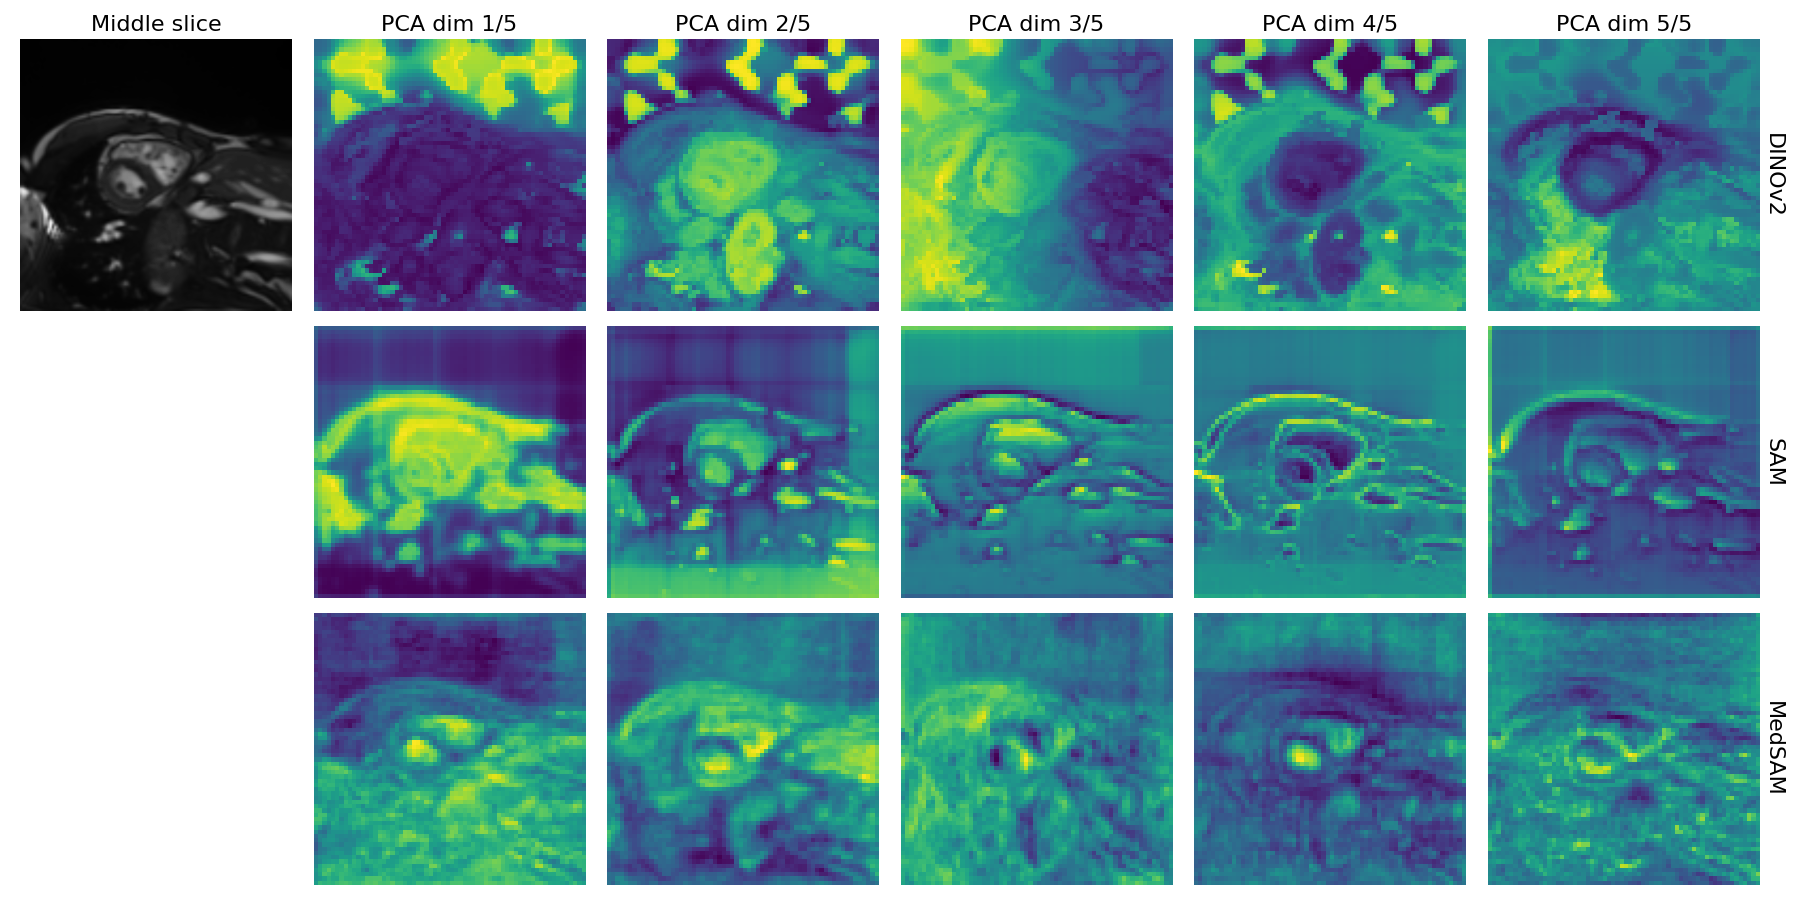
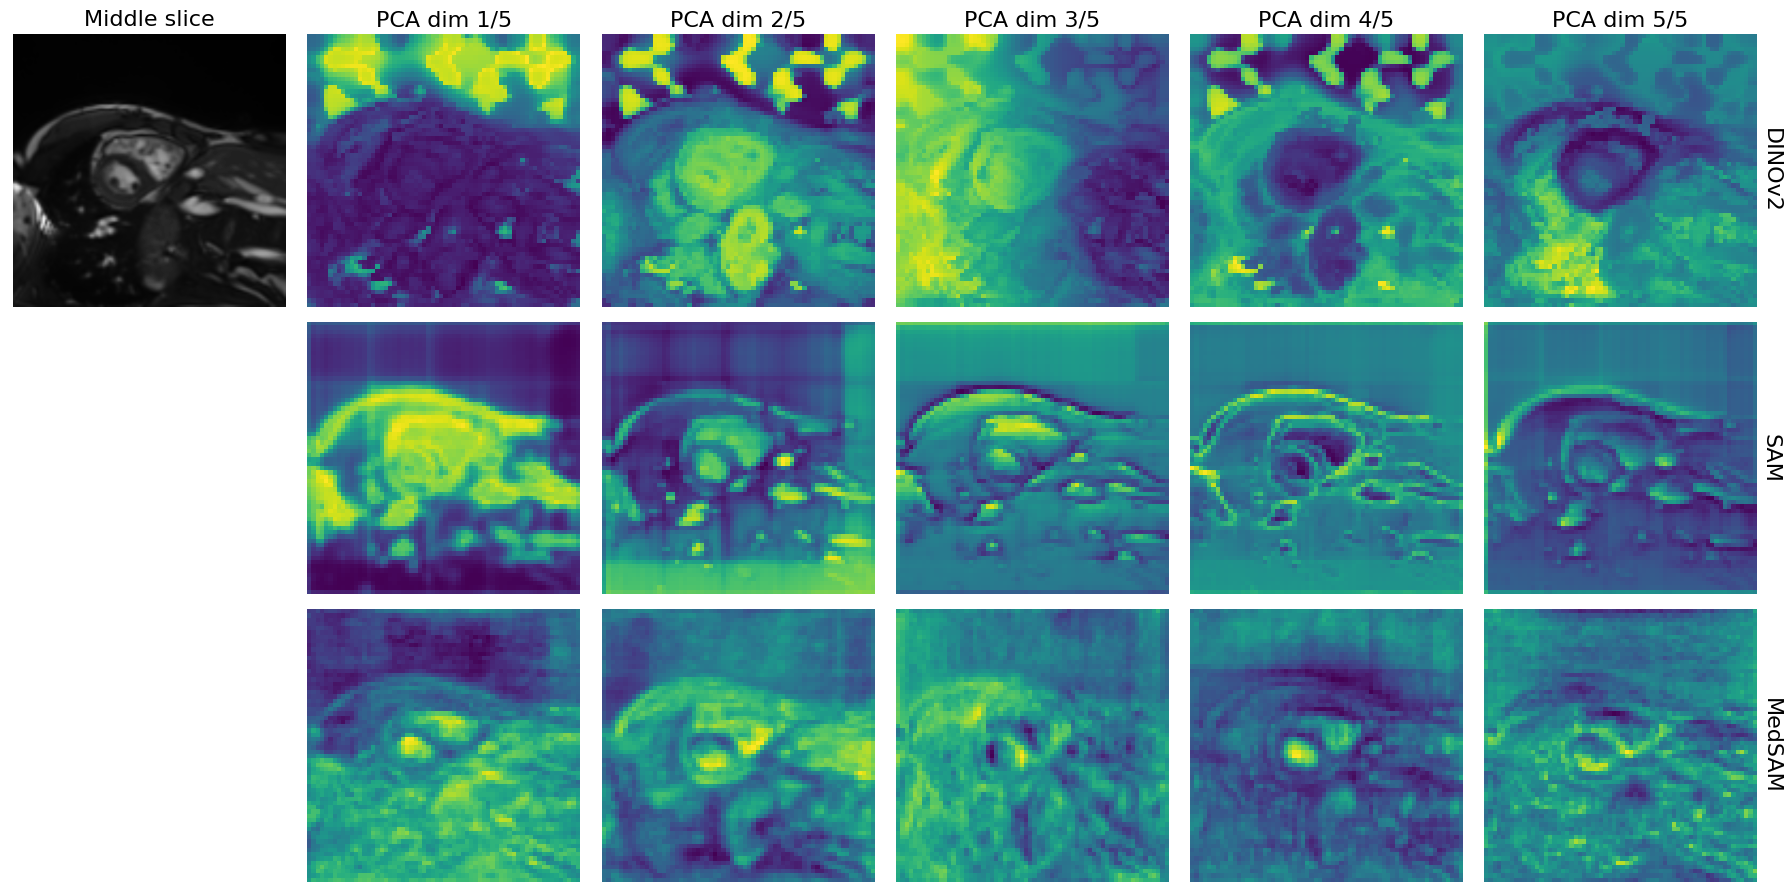
relative paths

diff --git a/examples/visualisation_scripts/visualise_features/visualise_features.py b/examples/visualisation_scripts/visualise_features/visualise_features.py
@@ -11,10 +11,10 @@ def features_pca(features: np.ndarray, num_dims: int) -> np:
     return pca_features
 
 
-path_image = "/u/home/koeglf/Documents/code/registrationbaselines/tmp/visualise_features/image_dino.pt"
-path_features_dino = "/u/home/koeglf/Documents/code/registrationbaselines/tmp/visualise_features/features_dino.pt"
-path_features_sam = "/u/home/koeglf/Documents/code/registrationbaselines/tmp/visualise_features/features_sam.pt"
-path_features_medsam = "/u/home/koeglf/Documents/code/registrationbaselines/tmp/visualise_features/features_medsam.pt"
+path_image = "registrationbaselines/examples/visualisation_scripts/visualise_features/image_dino.pt"
+path_features_dino = "registrationbaselines/examples/visualisation_scripts/visualise_features/features_dino.pt"
+path_features_sam = "registrationbaselines/examples/visualisation_scripts/visualise_features/features_sam.pt"
+path_features_medsam = "registrationbaselines/examples/visualisation_scripts/visualise_features/features_medsam.pt"
 
 image = torch.load(path_image, map_location='cpu').detach(
 ).numpy().squeeze()[0, :, :]
@@ -83,16 +83,8 @@ plt.tight_layout()
 plt.show()
 
 plt.savefig(
-    "/u/home/koeglf/Documents/code/registrationbaselines/tmp/visualise_features/features.png")
-
-x = 0
-
-
-# Adjust layout and show the figure
-plt.tight_layout()
-plt.show()
-
-plt.savefig(
-    "/u/home/koeglf/Documents/code/registrationbaselines/tmp/visualise_features/features.png")
+    "registrationbaselines/examples/visualisation_scripts/visualise_features/features.png",
+    bbox_inches='tight',
+    pad_inches=0.0)
 
 x = 0
